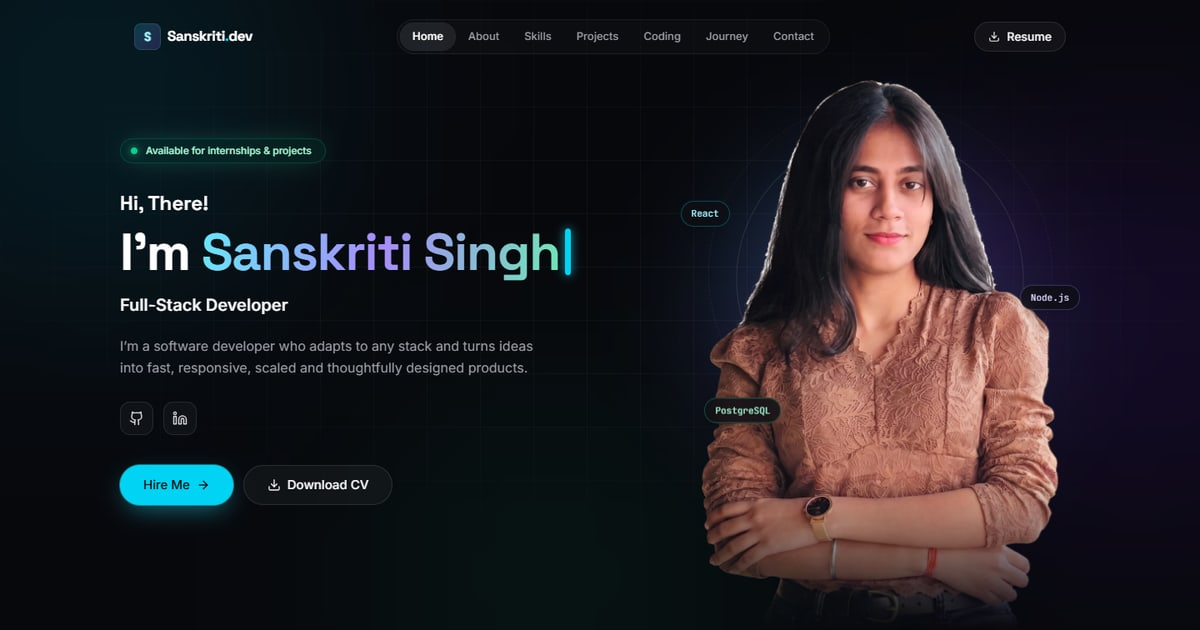
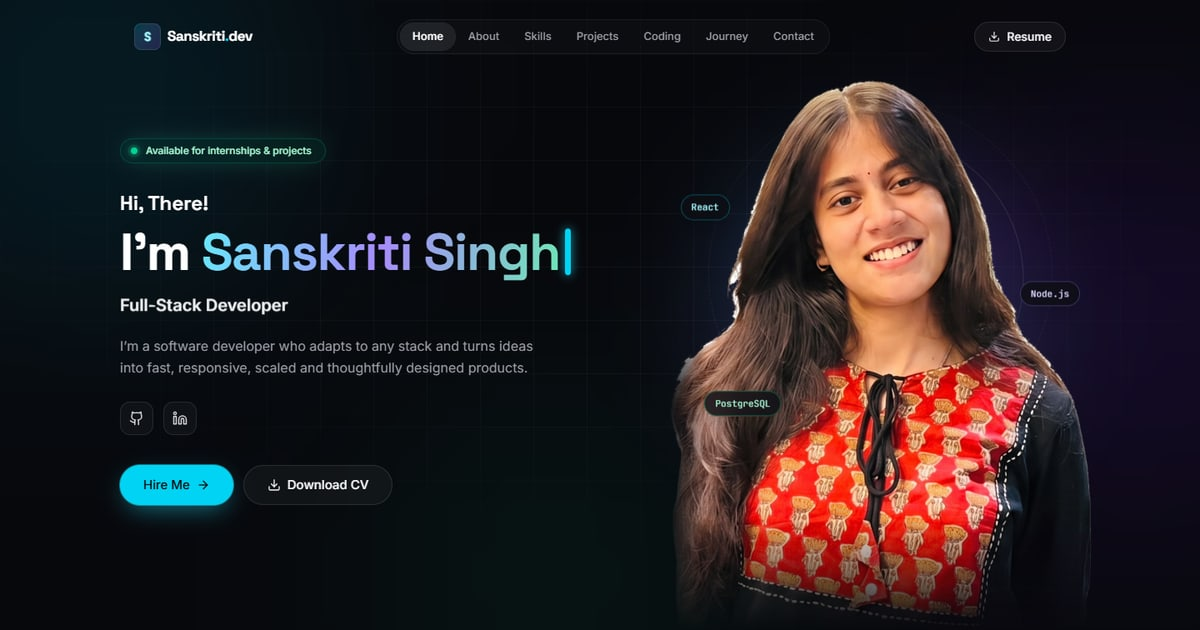
data updation

Changed region(s): [[0.555, 0.1206, 0.925, 0.9651], [0.1233, 0.4825, 0.1542, 0.5127]]

diff --git a/src/data/portfolioData.js b/src/data/portfolioData.js
@@ -31,7 +31,8 @@ export const profile = {
   status: "Available for internships & projects",
   email: "sanskritichandel2005@gmail.com",
   resumeUrl: "/resume.pdf", // TODO: put resume.pdf inside /public
-  photo: "/sanskriti.webp", // transparent cutout, shown in the hero
+  photo: "/sanskriti-portrait.webp", // transparent cutout, shown in the hero
+  photoSize: { width: 864, height: 1126 }, // intrinsic size of the file above
   greeting: "Hi, There!",
   intro:
     "I’m a software developer who adapts to any stack and turns ideas into fast, responsive, scaled and thoughtfully designed products.",
@@ -86,21 +87,21 @@ export const skillGroups = [
     icon: Terminal,
     accent: "violet",
     blurb: "The languages I think and build in.",
-    items: ["JavaScript", "TypeScript", "Python", "C++", "Java", "SQL"],
+    items: ["JavaScript", "C++", "Java", "SQL"],
   },
   {
     title: "Frontend",
     icon: Code2,
     accent: "cyan",
     blurb: "Fast, responsive and accessible interfaces.",
-    items: ["React", "Vite", "Tailwind CSS", "Zustand", "TanStack Query", "Recharts"],
+    items: ["React", "Vite", "Tailwind CSS", "Context API", "Zustand", "TanStack Query"],
   },
   {
     title: "Backend & Realtime",
     icon: Server,
     accent: "emerald",
     blurb: "APIs and live, event-driven systems.",
-    items: ["Node.js", "Express", "Socket.IO", "WebSockets", "Zod", "REST APIs"],
+    items: ["Node.js", "Express", "Socket.IO", "WebSockets", "Zod", "REST APIs", "GraphQL"],
   },
   {
     title: "Databases & Caching",

diff --git a/src/components/sections/Hero.jsx b/src/components/sections/Hero.jsx
@@ -135,12 +135,17 @@ export default function Hero() {
           <div aria-hidden className="absolute left-1/2 top-[10%] aspect-square w-[72%] -translate-x-1/2 rounded-full border border-white/10" />
           <div aria-hidden className="absolute left-1/2 top-[4%] aspect-square w-[86%] -translate-x-1/2 rounded-full border border-dashed border-white/6" />
 
-          <div className="absolute inset-0 overflow-hidden [mask-image:linear-gradient(to_bottom,black_72%,transparent)]">
+          {/* wider than the column so the portrait's sides are never clipped; bottom fades into the page */}
+          <div className="absolute inset-y-0 -inset-x-[25%] overflow-hidden [mask-image:linear-gradient(to_bottom,black_80%,transparent)]">
+            {/* head-to-waist portrait, shown uncropped; width/height set the aspect ratio before it loads.
+                The left fade softens where the original photo's hair was cropped straight. */}
             <img
               src={profile.photo}
               alt={`Portrait of ${profile.name}`}
+              width={profile.photoSize.width}
+              height={profile.photoSize.height}
               fetchPriority="high"
-              className="absolute left-1/2 top-0 h-[138%] w-auto max-w-none -translate-x-1/2 select-none"
+              className="absolute bottom-0 left-1/2 h-full w-auto max-w-none -translate-x-1/2 select-none [mask-image:linear-gradient(to_right,transparent,black_9%)]"
               draggable="false"
             />
           </div>
